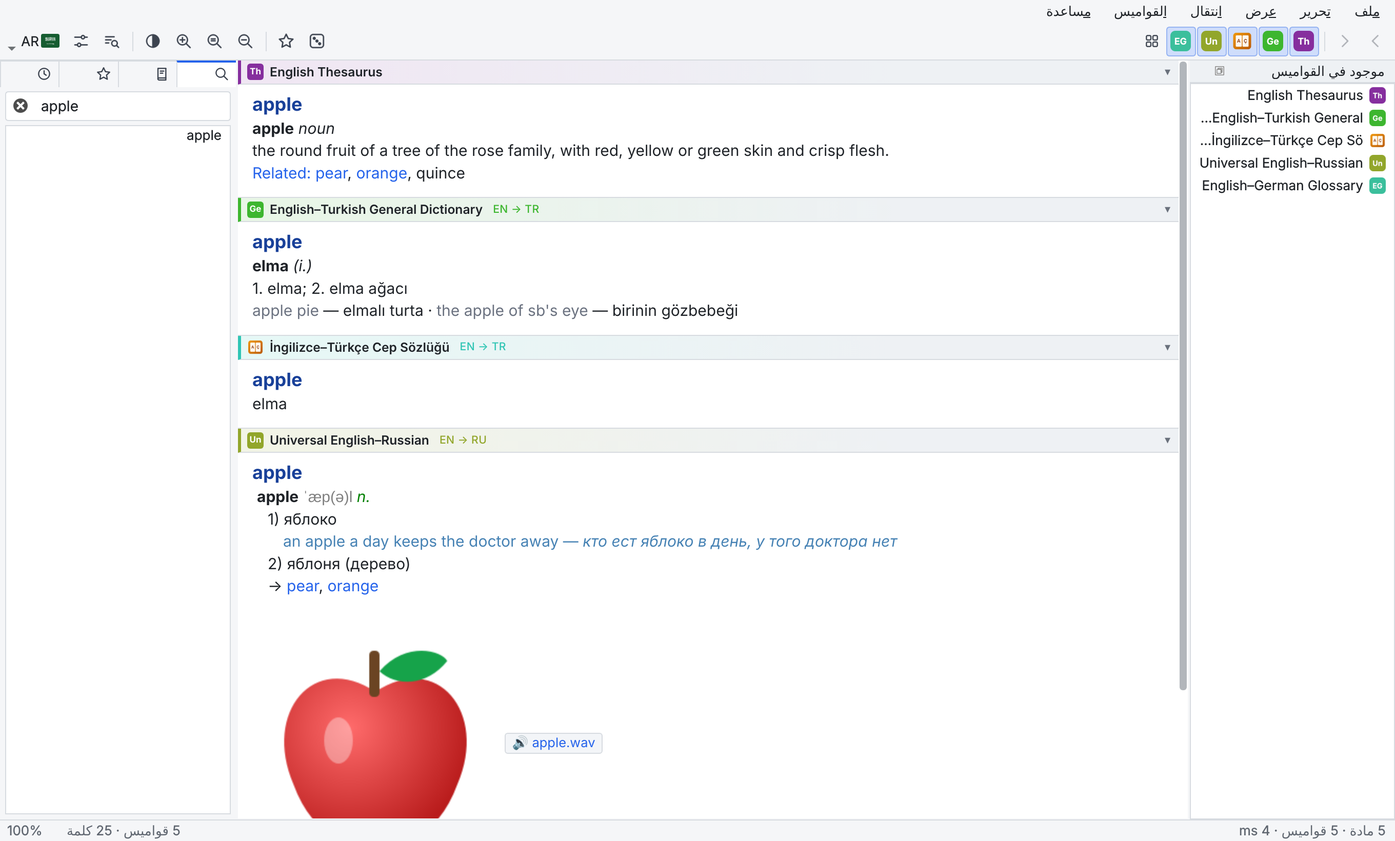
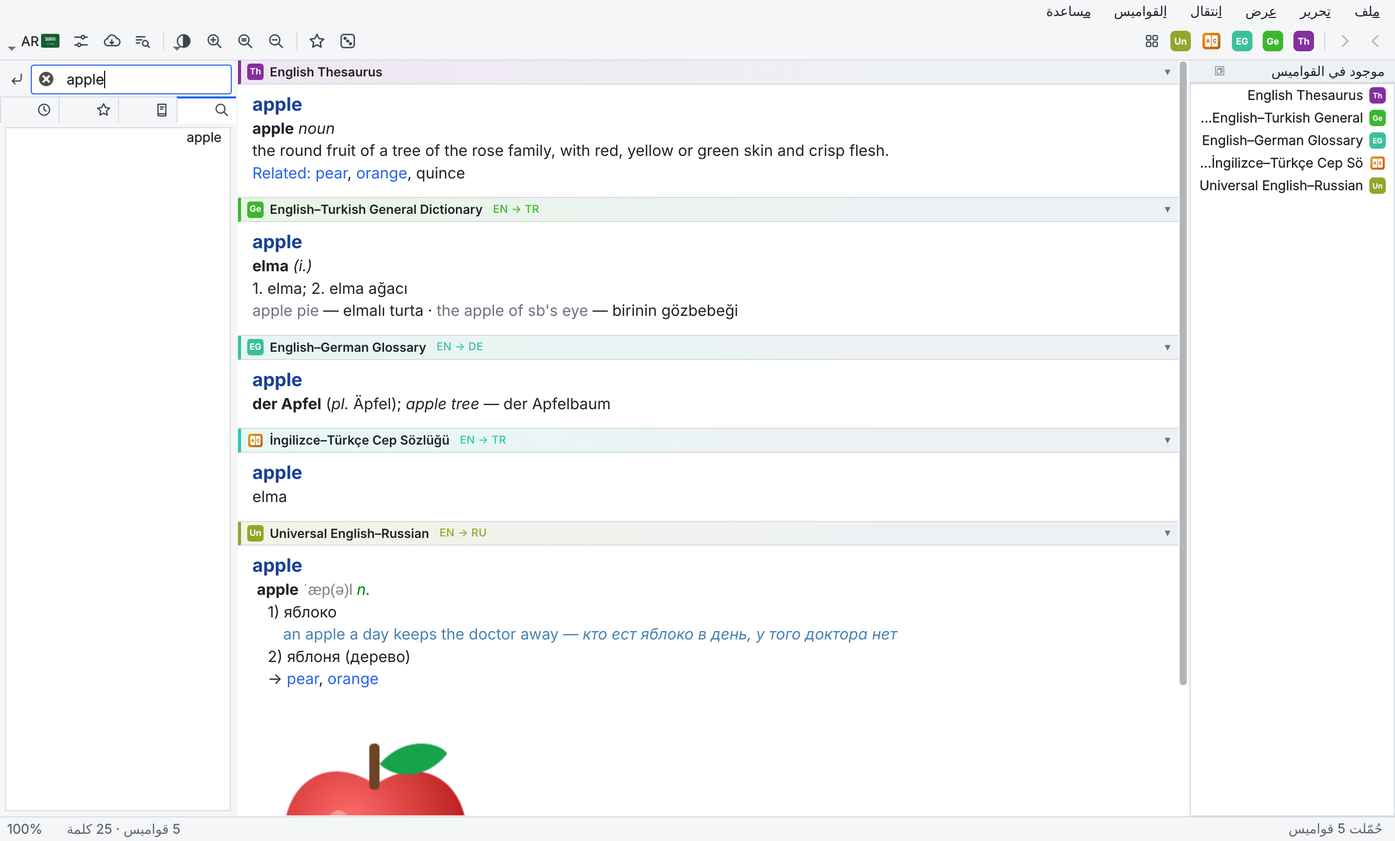
Phone: one dictionary folder, scan, catalog downloads; new screenshots
Phone app: all dictionaries in one folder like GoldenDict Mobile (default /storage/emulated/0/dictz, iOS Documents/dictionaries), changeable in Ayarlar, falls back to the app's own folder when refused.

Dictionaries copied into the folder by hand are found at start and with Sozlukler > Tara; the new Katalog page downloads free dictionaries into the folder with progress and cancel (dictz center feature in the core).

Android all-files permission and iOS Files sharing are written by tool/prepare.sh; the phone has two more CI screenshots (dictionaries, catalog).

Every desktop screenshot taken again, plus themes.png and dictionaries.png; docs/screenshots/shoot.py and shoot_rust.sh make them. READMEs, CHANGELOG, TODO, handoff and PACKAGING updated.

diff --git a/docs/screenshots/shoot.py b/docs/screenshots/shoot.py
@@ -1,0 +1,187 @@
+"""Take the README screenshots of the Python edition (no display needed).
+
+    QT_QPA_PLATFORM=offscreen python docs/screenshots/shoot.py [OUT_DIR]
+
+Builds the invented demo dictionaries (``demo_dicts.py``) into a fresh data
+folder, opens the window at 1360×820 with a scale of 2 and writes
+``main-light.png``, ``python-dark.png`` (Nord theme), ``themes.png``,
+``turkish.png``, ``arabic.png``, ``languages.png``, ``preferences.png``,
+``scan-popup.png`` and ``dictionaries.png`` (2720×1640 each). The Rust
+edition's pictures come from ``shoot_rust.sh``.
+"""
+from __future__ import annotations
+
+import os
+import shutil
+import sys
+import tempfile
+from pathlib import Path
+
+ROOT = Path(__file__).resolve().parents[2]
+OUT = Path(sys.argv[1]) if len(sys.argv) > 1 else Path(__file__).resolve().parent
+DATA = Path(tempfile.mkdtemp(prefix="dictz-"))
+os.environ["DICTZ_DATA_DIR"] = str(DATA / "data")
+os.environ.setdefault("QT_QPA_PLATFORM", "offscreen")
+os.environ["QT_SCALE_FACTOR"] = "2"
+os.environ.setdefault("QTWEBENGINE_CHROMIUM_FLAGS", "--no-sandbox")
+sys.path.insert(0, str(ROOT))
+sys.path.insert(0, str(Path(__file__).resolve().parent))
+
+from PySide6.QtCore import QPoint, Qt, QTimer  # noqa: E402
+from PySide6.QtGui import QColor, QPainter, QPixmap  # noqa: E402
+from PySide6.QtWidgets import QApplication  # noqa: E402
+
+W, H = 1360, 820
+
+
+def wait(app: QApplication, ms: int) -> None:
+    from PySide6.QtCore import QEventLoop
+
+    loop = QEventLoop()
+    QTimer.singleShot(ms, loop.quit)
+    loop.exec()
+
+
+def compose(base: QPixmap, top: QPixmap, at: QPoint, dim: bool = True) -> QPixmap:
+    """``top`` (a popup or dialog) drawn over ``base`` at ``at`` (logical px)."""
+    out = QPixmap(base)
+    p = QPainter(out)
+    if dim:
+        p.fillRect(out.rect(), QColor(0, 0, 0, 70))
+    ratio = base.devicePixelRatio()
+    p.drawPixmap(QPoint(int(at.x() * ratio), int(at.y() * ratio)) / ratio, top)
+    p.end()
+    return out
+
+
+def main() -> None:
+    import demo_dicts
+
+    app = QApplication([])  # before demo_dicts, which needs one for its pictures
+    dicts = DATA / "Dictionaries"
+    demo_dicts.main(dicts)
+    from dictz.core import i18n
+    from dictz.core.query_manager import QueryManager
+    from dictz.storage.history import HistoryStore
+    from dictz.storage.indexer import IndexStore
+    from dictz.storage.settings import SETTINGS_FILE, Preferences
+    from dictz.ui.main_window import MainWindow
+    from dictz.ui.preferences_dialog import PreferencesDialog
+
+    d = DATA / "data"
+    d.mkdir(parents=True, exist_ok=True)
+    st = IndexStore(d / "dictz_index.db")
+    st.open()
+    hs = HistoryStore(d / "dictz_history.db")
+    hs.open()
+    for word in ("light", "book", "yield", "pear", "apple"):
+        hs.record(word)
+    prefs = Preferences.load(d / SETTINGS_FILE)
+    prefs.set("general.load_in_background", False)
+    prefs.set("center.refresh_days", 0)
+    prefs.set("general.restore_last_search", False)
+    prefs.set("dictionaries.folders", [str(dicts)])
+    prefs.set("dictionaries.scan_on_startup", True)
+    qm = QueryManager(index_store=st)
+
+    def window(lang: str, theme: str, word: str = "apple") -> MainWindow:
+        i18n.set_language(lang)
+        app.setLayoutDirection(Qt.LayoutDirection.RightToLeft if i18n.is_rtl(lang)
+                               else Qt.LayoutDirection.LeftToRight)
+        prefs.set("general.language", lang)
+        prefs.set("appearance.theme", theme)
+        w = MainWindow(qm, hs, prefs)
+        w.resize(W, H)
+        w.show()
+        w.start_loading()
+        wait(app, 1500)
+        w.search_box.clear()  # the last search may already be in the box
+        w.search_box.setText(word)
+        w._run_search_explicit()
+        wait(app, 1500)
+        return w
+
+    def save(pix: QPixmap, name: str) -> None:
+        pix.save(str(OUT / name))
+        print("wrote", OUT / name, pix.width(), "x", pix.height())
+
+    w = window("en", "light")
+    save(w.grab(), "main-light.png")
+    # the language picker over the window
+    btn = getattr(w, "language_button", None)
+    menu = btn.menu() if btn is not None else None
+    if menu is not None:
+        menu.ensurePolished()
+        menu.resize(menu.sizeHint())  # not limited to the offscreen screen
+        pos = btn.mapTo(w, QPoint(btn.width() - menu.sizeHint().width(), btn.height()))
+        save(compose(w.grab(), menu.grab(), pos, dim=False), "languages.png")
+    # Preferences
+    dlg = PreferencesDialog(prefs, w)
+    dlg.resize(940, 640)
+    dlg.show()
+    wait(app, 300)
+    for i in range(dlg.nav.count()):
+        if dlg.nav.item(i).text() in ("Ses", "Sound", "Audio"):
+            dlg.nav.setCurrentRow(i)
+    wait(app, 200)
+    save(compose(w.grab(), dlg.grab(), QPoint((W - 940) // 2, (H - 640) // 2)), "preferences.png")
+    dlg.close()
+    # the scan popup
+    w.popup_lookup("yield")
+    wait(app, 1200)
+    pop = w.scan_popup
+    if pop is not None and pop.isVisible():
+        pop.resize(560, 420)
+        wait(app, 600)
+        shot = pop.grab()
+        p = QPainter(shot)
+        p.setPen(QColor(0, 0, 0, 90))
+        p.drawRect(0, 0, pop.width() - 1, pop.height() - 1)
+        p.end()
+        save(compose(w.grab(), shot, QPoint(W - 620, 90), dim=False), "scan-popup.png")
+        pop.hide()
+    # the Sözlükler window
+    c = w.open_center(0)
+    c.resize(W, H)
+    wait(app, 600)
+    save(c.grab(), "dictionaries.png")
+    c.close()
+    w.stop_services()
+    w.close()
+
+    w = window("en", "nord")
+    save(w.grab(), "python-dark.png")
+    w.stop_services()
+    w.close()
+    # four themes in one picture
+    tiles = []
+    for th in ("solarized-light", "dracula", "mint", "gruvbox-dark"):
+        w = window("en", th)
+        tiles.append(w.grab())
+        w.stop_services()
+        w.close()
+    grid = QPixmap(tiles[0].size())
+    grid.setDevicePixelRatio(tiles[0].devicePixelRatio())
+    grid.fill(Qt.GlobalColor.black)
+    p = QPainter(grid)
+    half_w, half_h = W // 2, H // 2
+    for i, t in enumerate(tiles):
+        p.drawPixmap(QPoint((i % 2) * half_w, (i // 2) * half_h),
+                     t.scaled(t.width() // 2, t.height() // 2, Qt.AspectRatioMode.IgnoreAspectRatio,
+                              Qt.TransformationMode.SmoothTransformation))
+    p.end()
+    save(grid, "themes.png")
+
+    w = window("tr", "light")
+    save(w.grab(), "turkish.png")
+    w.stop_services()
+    w.close()
+    w = window("ar", "light")
+    save(w.grab(), "arabic.png")
+    w.stop_services()
+    w.close()
+    shutil.rmtree(DATA, ignore_errors=True)
+
+
+if __name__ == "__main__":
+    main()

diff --git a/README.md b/README.md
@@ -42,26 +42,32 @@ Both read dictionaries identically, which CI checks against shared golden files.
 
 Both install two commands: **`dictz`** and its short name **`dct`**. They are the same program.
 
-**On the phone:** [`dictz-mobile/`](dictz-mobile/README.md) — Android and iOS from one Flutter app on the same Rust core (StarDict with synonyms, DSL, Babylon; search, "did you mean", favourites, history, the 27 themes and 25 languages). In development; the APK is built by GitHub Actions (*Actions → CI → Run workflow*, artifact `dictz-android`).
+**On the phone:** [`dictz-mobile/`](dictz-mobile/README.md) — Android and iOS from one compact, GoldenDict-Mobile-like Flutter app on the same Rust core (StarDict with synonyms, DSL, Babylon; search, "did you mean", favourites, history, the 27 themes and 25 languages). All dictionaries live in **one folder** — by default `/storage/emulated/0/dictz` on Android (like GoldenDict's `/sdcard/GoldenDict`), `Documents/dictionaries` on iOS (visible in the Files app) — and you can change it in Settings. Dictionaries you copy into it by hand are found by **Scan**; the **Catalog** downloads free dictionaries (FreeDict, Wiktionary, the StarDict archive …) straight into it. The APK is built by GitHub Actions (*Actions → CI → Run workflow*, artifact `dictz-android`, attached to every release).
 
 ## Screenshots
 
 <table>
 <tr>
-<td width="50%"><img src="https://raw.githubusercontent.com/bayramkotan/dictz/main/docs/screenshots/main-dark.png" alt="Rust edition, dark theme"><br><sub><b>Rust edition, dark theme</b> — one native binary, same features</sub></td>
-<td width="50%"><img src="https://raw.githubusercontent.com/bayramkotan/dictz/main/docs/screenshots/languages.png" alt="Language picker with flags"><br><sub><b>25 interface languages</b> — the flag at the top right</sub></td>
+<td width="50%"><img src="https://raw.githubusercontent.com/bayramkotan/dictz/main/docs/screenshots/main-dark.png" alt="Rust edition, Dracula theme"><br><sub><b>Rust edition, Dracula theme</b> — one native binary, same features</sub></td>
+<td width="50%"><img src="https://raw.githubusercontent.com/bayramkotan/dictz/main/docs/screenshots/python-dark.png" alt="Python edition, Nord theme"><br><sub><b>Python edition, Nord theme</b> — 27 themes, or follow the system</sub></td>
+</tr>
+<tr>
+<td><img src="https://raw.githubusercontent.com/bayramkotan/dictz/main/docs/screenshots/themes.png" alt="Four themes side by side"><br><sub><b>Themes</b> — Solarized Light, Dracula, Mint, Gruvbox Dark …</sub></td>
+<td><img src="https://raw.githubusercontent.com/bayramkotan/dictz/main/docs/screenshots/languages.png" alt="Language picker with flags"><br><sub><b>25 interface languages</b> — the flag at the top right</sub></td>
 </tr>
 <tr>
 <td><img src="https://raw.githubusercontent.com/bayramkotan/dictz/main/docs/screenshots/scan-popup.png" alt="Scan popup"><br><sub><b>Scan popup</b> — copy a word anywhere (Ctrl+C+C)</sub></td>
-<td><img src="https://raw.githubusercontent.com/bayramkotan/dictz/main/docs/screenshots/preferences.png" alt="Preferences window"><br><sub><b>Preferences</b> — 90 settings, searchable, per-setting reset</sub></td>
+<td><img src="https://raw.githubusercontent.com/bayramkotan/dictz/main/docs/screenshots/preferences.png" alt="Preferences window, Sound page"><br><sub><b>Preferences → Sound</b> — pick the player (built-in, mpv, FFplay, VLC, MPlayer, system, own command) and the speed</sub></td>
 </tr>
 <tr>
+<td><img src="https://raw.githubusercontent.com/bayramkotan/dictz/main/docs/screenshots/dictionaries.png" alt="Dictionaries window"><br><sub><b>Dictionaries</b> — your list in search order, folders, catalog, sources, downloads</sub></td>
 <td><img src="https://raw.githubusercontent.com/bayramkotan/dictz/main/docs/screenshots/arabic.png" alt="Arabic interface, right to left"><br><sub><b>العربية</b> — Arabic, Persian and Urdu run right to left</sub></td>
-<td><img src="https://raw.githubusercontent.com/bayramkotan/dictz/main/docs/screenshots/python-dark.png" alt="Python edition, dark theme"><br><sub><b>Python edition, dark theme</b> — light, dark or follow the system</sub></td>
 </tr>
 </table>
 
-<sub>The dictionaries in the pictures are small invented samples (`docs/screenshots/demo_dicts.py`); dictz ships no dictionary content.</sub>
+Phone screenshots are made by CI from the app itself (`flutter test test_screens`, artifact `dictz-mobile-screenshots`): article, word list, "did you mean", dark / Nord / Sepia themes, menu, dictionaries with the folder, catalog, history and settings.
+
+<sub>The dictionaries in the pictures are small invented samples (`docs/screenshots/demo_dicts.py`); dictz ships no dictionary content. `docs/screenshots/shoot.py` (Python edition, no display needed) and `shoot_rust.sh` (Rust edition, under Xvfb) take all these pictures again.</sub>
 
 ## Highlights
 
@@ -80,7 +86,7 @@ Both install two commands: **`dictz`** and its short name **`dct`**. They are th
   - **27 themes** (Otomatik, Açık, Koyu, Sepya, Solarized, Gruvbox, GitHub, Catppuccin, Rosé Pine, Nord, One, Nane, Lavanta, Dracula, Monokai, Tokyo Night, Everforest, Gece mavisi, Gece siyahı, high contrast…) from Görünüm → Tema or the toolbar's theme button; accent color, fonts and zoom
 - **25 interface languages** with a flag picker at the top right: Türkçe, English, Azərbaycan türkcəsi, Deutsch, Français, Español, Italiano, Português, Nederlands, Polski, Русский, Українська, العربية, فارسی, اردو, Қазақша, Кыргызча, Oʻzbekcha, Türkmençe, 中文, 日本語, 한국어, Bahasa Indonesia, Bahasa Melayu, हिन्दी. Arabic, Persian and Urdu run right to left.
 - **Adding never freezes the window:** new or changed dictionaries are read in the background by several workers at once (separate processes in the Python edition, threads in the Rust edition), with a progress bar and a stop button in the status bar.
-- **One Sözlükler window** (Ctrl+M): your dictionaries (drag to reorder, on / off, remove with or without the files), folders, catalog, sources, downloads, import / export and settings in seven tabs. **Catalog** (Ctrl+Shift+M): browse, download and install free dictionaries from many servers — dictz's own server, FreeDict, Wiktionary builds, ECDICT, the StarDict archive, the Internet Archive, FreeMdict, a Telegram channel — or from **your own server, folder or link**. Every dictionary shows its **licence** (open / free / unknown / personal use) before you download it. Add, edit, remove, reorder and switch servers; pause, resume and retry downloads; uninstall and update; export / import your whole setup.
+- **One Sözlükler window** (Ctrl+M): your dictionaries (drag to reorder, on / off, remove with or without the files), folders, catalog, sources, downloads, import / export and settings in seven tabs. **Catalog** (Ctrl+Shift+M): browse, download and install free dictionaries from many servers — dictz's own server, FreeDict, Wiktionary builds, ECDICT, the StarDict archive, the Internet Archive, a Telegram channel — or from **your own server, folder or link**. Every dictionary shows its **licence** (open / free / unknown / personal use) before you download it. Add, edit, remove, reorder and switch servers; pause, resume and retry downloads; uninstall and update; export / import your whole setup.
 - **90 settings** in 10 pages with search and per-setting reset.
 - **Full command line:** `dct lookup`, `dct add`, `dct config`, `dct doctor`, `dct update`, `dct shortcut` and more, with shell completion.
 - **Offline and private:** no telemetry. dictz goes online only for `dct update` / the update check and for the Dictionary Center's servers, and both can be switched off (`center.online`).
@@ -553,14 +559,24 @@ Pencerede de aynı işlem var: **Dosya → Masaüstü kısayolu oluştur**.
 - **27 tema:** Görünüm → Tema ya da araç çubuğundaki tema düğmesi (Otomatik, Açık, Koyu, Sepya, Solarized, Gruvbox, Nord, Dracula, Tokyo Night, Gece siyahı, yüksek kontrast…).
 - **Hızlı:** SQLite FTS5 ve diakritik duyarsız arama; öneriler ayrı bir iş parçacığında hazırlanır, yazarken pencere hiç takılmaz. Arama kutusu sol bölmenin üstünde sabittir (yanında Enter ⏎ düğmesi), Favoriler ya da Geçmiş açıkken de görünür.
 - **Bulanık arama:** sonuç yoksa "Bunu mu demek istediniz?" önerileri.
-- **Resim ve ses:** DSL `[s]` dosyaları.
+- **Resim ve ses:** DSL `[s]` dosyaları. Sesler sonuna kadar çalar (son hece kesilmesin diye sona kısa bir sessizlik eklenir); hız 0.5–1.5×, oynatıcı **Tercihler → Ses** açılır listesinden seçilir: yerleşik, mpv, FFplay, VLC, MPlayer, sistemin oynatıcısı ya da kendi komutunuz. Son sesi yeniden çal / durdur düğmeleri durum çubuğunda.
+- **StarDict eş anlamlıları (`.syn`):** *went* araması *go* maddesini bulur.
 - **Çevrimdışı:** telemetri yok.
 - **Tarama penceresi:** herhangi bir programda Ctrl+C+C, her kopyalama ya da Linux'ta yalnızca seçmek, makaleyi imlecin yanında açar. Ayrıca tepsi simgesi, genel kısayollar ve tek kopya çalışma.
 - **25 arayüz dili:** pencerenin sağ üstündeki bayraktan seçilir (Türkçe, English, Azərbaycan türkcəsi, Deutsch, Русский, العربية, فارسی, 中文, 日本語…). Arapça, Farsça ve Urduca sağdan sola.
 - **Tek Sözlükler penceresi** (Ctrl+M): sözlükleriniz (sürükleyerek sıralama, aç / kapa, listeden ya da dosyalarıyla kaldırma), klasörler, katalog, kaynaklar, indirmeler, içe / dışa aktarma ve ayarlar yedi sekmede. Araç çubuğundaki sözlük simgesine tıklamak o sözlüğün makalesine gider, Ctrl+tık açar / kapatır, sürüklemek sırayı değiştirir.
-- **Katalog** (Ctrl+Shift+M): ücretsiz ve açık kaynak sözlükleri birçok sunucudan (dictz'in kendi sunucusu, FreeDict, Wiktionary, ECDICT, StarDict arşivi, Internet Archive, FreeMdict, Telegram) ya da **kendi sunucunuzdan, klasörünüzden, bağlantınızdan** arayın, indirin, kurun. Her sözlüğün **lisansı** indirmeden önce görünür. Sunucu ekleme / düzenleme / silme / sıralama / varsayılan yapma, indirmeyi duraklatma / sürdürme, kaldırma, güncelleme ve tüm kurulumu içe / dışa aktarma.
+- **Katalog** (Ctrl+Shift+M): ücretsiz ve açık kaynak sözlükleri birçok sunucudan (dictz'in kendi sunucusu, FreeDict, Wiktionary, ECDICT, StarDict arşivi, Internet Archive, Telegram) ya da **kendi sunucunuzdan, klasörünüzden, bağlantınızdan** arayın, indirin, kurun. Her sözlüğün **lisansı** indirmeden önce görünür. Sunucu ekleme / düzenleme / silme / sıralama / varsayılan yapma, indirmeyi duraklatma / sürdürme, kaldırma, güncelleme ve tüm kurulumu içe / dışa aktarma.
 - **Ayarlar:** 10 sayfada 90 ayar, arama kutusu ve ayar başına sıfırlama.
 - **Tam komut satırı:** iki sürümde aynıdır (`dct help`), kabuk tamamlama hem `dictz` hem `dct` için çalışır.
+
+### Telefonda (Android / iOS)
+
+[`dictz-mobile/`](dictz-mobile/README.md): aynı Rust çekirdeği üzerinde, GoldenDict Mobile gibi kompakt bir Flutter uygulaması (arama, "Bunu mu demek istediniz?", favoriler, geçmiş, 27 tema, 25 dil).
+
+- **Tek sözlük klasörü:** varsayılanı Android'de `/storage/emulated/0/dictz` (GoldenDict'teki `/sdcard/GoldenDict` gibi), iOS'ta `Belgeler/dictionaries` (Dosyalar uygulamasında görünür). **Ayarlar → Sözlük klasörü**'nden değiştirilebilir ya da varsayılana döndürülebilir.
+- **Tarama:** bilgisayardan bu klasöre kopyaladığınız sözlükleri açılışta ve **Sözlükler → Tara** düğmesiyle bulur.
+- **Katalog:** FreeDict, Wiktionary, StarDict arşivi gibi kaynaklardaki ücretsiz sözlükleri doğrudan bu klasöre indirir, açar ve listeye ekler (ilerleme çubuğu, iptal).
+- APK her CI çalışmasında derlenir (*Actions → CI → Run workflow*, `dictz-android`) ve sürümlere eklenir; ekran görüntüleri `dictz-mobile-screenshots` içindedir.
 
 ### Lisans
 

diff --git a/dictz-rs/README.md b/dictz-rs/README.md
@@ -8,7 +8,7 @@ Cross-platform, multi-format **offline dictionary** — a GoldenDict-style deskt
 
 This is the Rust edition of [dictz](https://github.com/bayramkotan/dictz). The Python edition (`pip install dictz`) has the same features and ships from the same tag with the same version number. Both editions read dictionaries the same way: CI checks it against shared golden files. They also share one data folder (`dictionaries.json`, `settings.json`, `dictz_index.db`, `dictz_history.db`), so dictionaries, history and favorites added in one edition show up in the other.
 
-<p align="center"><img src="https://raw.githubusercontent.com/bayramkotan/dictz/main/docs/screenshots/main-dark.png" alt="dictz Rust edition, dark theme: the search pane on the left, five dictionaries answer “apple”, each under a thin strip with the dictionary's icon and language pair" width="100%"></p>
+<p align="center"><img src="https://raw.githubusercontent.com/bayramkotan/dictz/main/docs/screenshots/main-dark.png" alt="dictz Rust edition, Dracula theme (one of 27): the search pane on the left, five dictionaries answer “apple”, each under a thin strip with the dictionary's icon and language pair" width="100%"></p>
 
 <table>
 <tr>
@@ -17,7 +17,9 @@ This is the Rust edition of [dictz](https://github.com/bayramkotan/dictz). The P
 </tr>
 </table>
 
-<sub>The dictionaries in the pictures are small invented samples; dictz ships no dictionary content.</sub>
+<sub>The dictionaries in the pictures are small invented samples; dictz ships no dictionary content. The pictures are taken again with `docs/screenshots/shoot_rust.sh`.</sub>
+
+This crate is also the core of the phone edition ([`dictz-mobile/`](https://github.com/bayramkotan/dictz/tree/main/dictz-mobile), Android and iOS): built with `default-features = false, features = ["center"]` — no window, but the readers, index, search and the catalog / download queue that fills the phone's one dictionary folder.
 
 ## Install the app
 
@@ -51,7 +53,7 @@ The Windows binary is a GUI program, but it attaches to the console when you sta
 - **25 interface languages** from the flag at the top right (Türkçe, English, Azərbaycan türkcəsi, Deutsch, Русский, العربية, فارسی, 中文, 日本語, 한국어 …); Arabic, Persian and Urdu interface texts are shaped and drawn right to left.
 - **Dictionary icons:** a dictionary's own icon (`Name.png` / `.ico` / `.bmp` next to it, or the icon inside a `.bgl`), otherwise a monogram badge in its own colour; every article card shows it with the language pair and format.
 - **One Sözlükler window** (Ctrl+M) with seven tabs — Sözlüklerim (drag rows to reorder, on / off, only this, info, reindex, remove from the list or with the files), Klasörler, Katalog, Kaynaklar, İndirmeler, İçe / Dışa aktar, Ayarlar — and one **Sözlükler** menu; Dosya keeps only article, favourites, shortcut and quit.
-- **Catalog** (Ctrl+Shift+M): catalog of free dictionaries from many servers (dictz-data, FreeDict, Wiktionary builds, ECDICT, the StarDict archive, the Internet Archive, FreeMdict, Telegram) or your own server, folder or link, with each dictionary's **licence**; download queue with pause / resume / retry and resumed partial downloads, checksums, unpacking (zip, tar, tar.gz, tar.xz, tar.bz2 — pure Rust), uninstall, updates, setup export / import, `catalog.json` builder for your own server. Same files and results as the Python edition.
+- **Catalog** (Ctrl+Shift+M): catalog of free dictionaries from many servers (dictz-data, FreeDict, Wiktionary builds, ECDICT, the StarDict archive, the Internet Archive, Telegram) or your own server, folder or link, with each dictionary's **licence**; download queue with pause / resume / retry and resumed partial downloads, checksums, unpacking (zip, tar, tar.gz, tar.xz, tar.bz2 — pure Rust), uninstall, updates, setup export / import, `catalog.json` builder for your own server. Same files and results as the Python edition.
 - **Multi-dictionary search** in your own order. Change the order by dragging in the Sözlüklerim tab, the dictionary bar, the found-in panel or the left pane.
 - **Fuzzy search:** "did you mean" suggestions, worked out on their own thread (`suggest.rs`) so typing never freezes. The scores are identical to RapidFuzz `fuzz.ratio`, which the Python edition uses.
 - **DSL pictures and sounds** are read from `X.dsl.dz.files.zip`, `X.dsl.files.zip`, `X.files.zip` or the same names as folders (any letter case), StarDict's from `res/`. Pictures show inline; sounds play with one click (WAV, MP3, Ogg, FLAC).

diff --git a/CHANGELOG.md b/CHANGELOG.md
@@ -15,6 +15,9 @@ and this project adheres to [Semantic Versioning](https://semver.org/spec/v2.0.0
 - **Playback speed** (`audio.speed`, 0.5–1.5): slow a sound down to hear it better (built-in players and every external one).
 - **Replay / stop** buttons for the last sound in the status bar (both editions).
 - The old "Sistem oynatıcısını kullan" setting becomes `audio.player = system` by itself. Command lines and padded WAVs are the same in both editions (`audio_golden.json`).
+- **Phone app: one dictionary folder, like GoldenDict Mobile.** Every dictionary lives in one folder — by default `/storage/emulated/0/dictz` on Android (GoldenDict's `/sdcard/GoldenDict`), `Documents/dictionaries` on iOS (shown in the Files app) — changeable in *Ayarlar → Sözlük klasörü* (pick a folder, or back to the default). Dictionaries copied there by hand are found at start and with *Sözlükler → Tara* (`dictz_scan`); added files are copied into it (`dictz_import`); a folder that cannot be used (permission refused, not writable) falls back to the app's own folder and says so. Android asks once for all-files access (Android 11+; `MANAGE_EXTERNAL_STORAGE`, `requestLegacyExternalStorage` for 10); iOS shares `Documents` (`UIFileSharingEnabled`, `LSSupportsOpeningDocumentsInPlace`).
+- **Phone app: catalog downloads.** A *Katalog* page lists the free dictionaries of the desktop's sources (FreeDict, Wiktionary, the StarDict archive …) with a filter and a refresh button; *Kur* downloads one into the dictionary folder through the desktop's download queue (`center` feature of the `dictz` crate: checksums, unpacking), shows progress with a cancel button, and adds it to the list when done (`dictz_catalog_refresh`, `dictz_catalog`, `dictz_install`, `dictz_downloads`, `dictz_download_cancel`). Two more phone screenshots: dictionaries with the folder, catalog.
+- **New README screenshots**, all taken again from the current program (2720×1640): Rust in Dracula and light, Python in Nord, a four-theme picture (`themes.png`), the language picker, *Tercihler → Ses* with the player list, the scan popup, the *Sözlükler* window (`dictionaries.png`), Turkish and Arabic, Arabic in the Rust edition. `docs/screenshots/shoot.py` (Python edition, offscreen, no display) and `docs/screenshots/shoot_rust.sh` (Rust edition under Xvfb) make them all from the invented demo dictionaries.
 - **Phone app, GoldenDict-Mobile-like and compact:** one slim bar (menu, search box, Enter, ⋮), a side menu for Favoriler / Geçmiş / Sözlükler / Ayarlar, articles under thin foldable strips with the dictionary's badge, a small button that lists the dictionaries of the word and jumps to one, the phone's back key goes to the previous word. **Screenshots** are drawn by CI (`test_screens/`, artifact `dictz-mobile-screenshots`), and the **APK is one of every release's files**.
 - **dictz-mobile/** — the Android and iOS apps (first build, for testing): one Flutter interface on the same Rust core (`dictz-mobile/rust`: a C interface with JSON in and out over the `dictz` library, used through `dart:ffi`). Search box always on top with Enter and random-word buttons, word list while typing (background isolate), articles one strip per dictionary (`bword://` links, DSL pictures, back), favourites and history, dictionaries added from the phone's files (StarDict set with `.syn`, DSL, Babylon or a `.zip`; copied into the app), on / off, drag to reorder, remove with or without the files, the 27 themes and the 25 interface languages (the desktop's `themes.json` and catalogues). `tool/prepare.sh` makes the platform folders (`flutter create`) and builds the core (cargo-ndk for Android, a `DictzCore.xcframework` for iOS). New jobs in the CI workflow (`mobile-core`, `mobile-android`, `mobile-ios`; on tags and manual runs, not on pull requests, never holding up the release): core tests, APK, unsigned iOS app as artifacts; a tag attaches the APK to the release.
 

diff --git a/docs/PACKAGING.md b/docs/PACKAGING.md
@@ -134,7 +134,8 @@ No new system packages are needed to build either edition. A Linux tray needs a 
 ## Mobile apps (dictz-mobile/) — what they need
 
 - Build machine: Flutter 3.24.5, Java 17, Rust stable; Android: the NDK (`ANDROID_NDK_HOME`) and `cargo-ndk`; iOS: macOS with Xcode and CocoaPods. `tool/prepare.sh android|ios` does the rest (assets from `dictz/resources`, `flutter create` for the platform folders, the Rust core).
-- The core crate `dictz-mobile/rust` uses `dictz` with `default-features = false` (no window, no network); rusqlite's bundled SQLite is compiled by the NDK / Xcode toolchain.
+- The core crate `dictz-mobile/rust` uses `dictz` with `default-features = false, features = ["center"]` (no window; the catalog and download queue over ureq + rustls with `ring`, which cross-compile with cargo-ndk and for iOS without OpenSSL); rusqlite's bundled SQLite is compiled by the NDK / Xcode toolchain.
+- **Permissions** (written into the generated platform files by `tool/prepare.sh`): Android `INTERNET` (catalog), `READ_/WRITE_EXTERNAL_STORAGE` (Android ≤ 10, with `requestLegacyExternalStorage`) and `MANAGE_EXTERNAL_STORAGE` (Android 11+, *All files access*, for the shared folder `/storage/emulated/0/dictz`). Google Play allows `MANAGE_EXTERNAL_STORAGE` only for some app kinds: a Play build may have to drop it and keep the dictionaries in the app's own folder (`Android/data/com.bayramkotan.dictz_mobile/files/dictionaries`, which dictz already falls back to). iOS: `UIFileSharingEnabled` + `LSSupportsOpeningDocumentsInPlace`, so `Documents/dictionaries` shows in the Files app.
 - Distribution: the APK from *Actions → CI → Run workflow* (artifact `dictz-android`) (debug-key signed: sideload; Play Store needs an upload key). iOS needs an Apple developer account for TestFlight / App Store; the workflow builds `--no-codesign`.
 
 ## Parity between the editions
